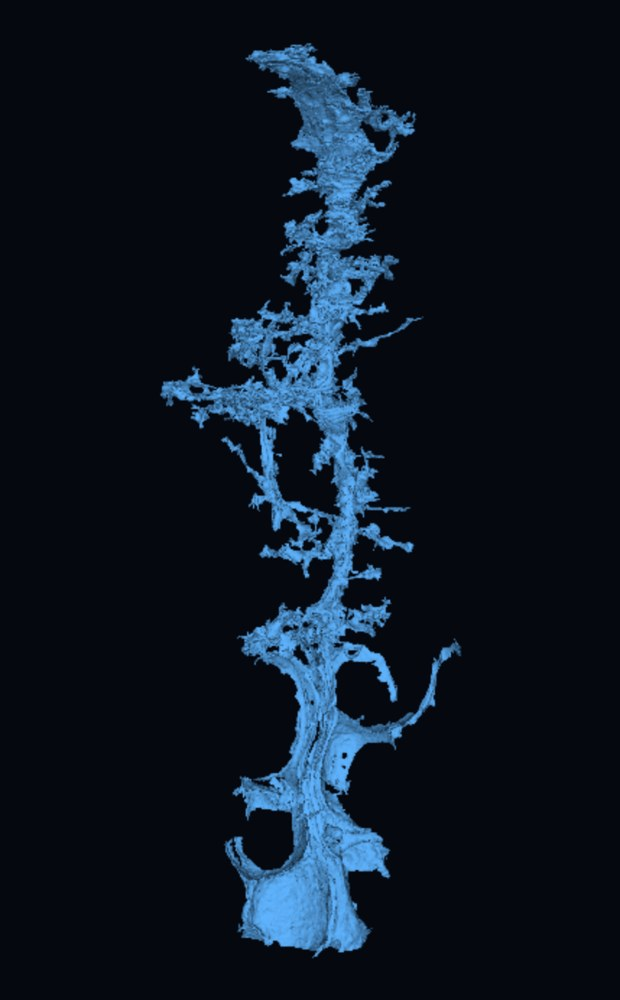
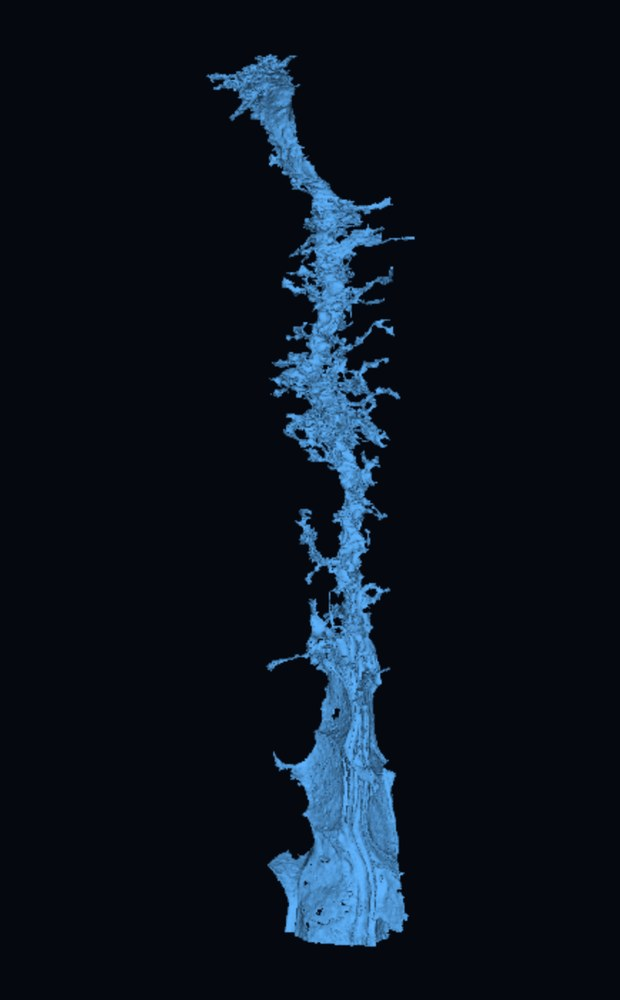
Müller Glia Quest: Play hub card on, Nseraf's glia as the example, edits keep action links
- Play hub: the Glia Quest card is on (GLIA_HERE) and opens the Müller
  quest; Cilia Quest opens Cilia.
- Edited text keeps any [words](#action) link: an edit had turned Show this
  glia into a dead [Show this glia](#) (site_texts.ts).
- Show this glia and the popup picture are Nseraf's proofread glia.
- Müller with the umlaut in everything a player reads.

Changed region(s): [[0.2452, 0.031, 0.6742, 0.961], [0.6742, 0.62, 0.7355, 0.713]]

diff --git a/src/components/MullerGliaQuest.vue b/src/components/MullerGliaQuest.vue
@@ -1,6 +1,6 @@
 <script setup lang="ts">
 /**
- * MullerGliaQuest.vue: the Muller Glia Quest in the Quests tab (Ames
+ * MullerGliaQuest.vue: the Müller Glia Quest in the Quests tab (Ames
  * 2026-11-19). "The first section is confirming that it's a glia with a yes
  * or no. The second stage has users split two glia together that are merged."
  *
@@ -42,18 +42,20 @@ const pairOpen = ref('');
 const checking = ref('');
 const pairNote = ref<Record<string, string>>({});
 
-/** "What is a Muller glia?" (Ames 2026-11-19: "link to a glia here and have
- *  an image in a popup"): the game's instructions box, with a Muller glia the
+/** "What is a Müller glia?" (Ames 2026-11-19: "link to a glia here and have
+ *  an image in a popup"): the game's instructions box, with a Müller glia the
  *  lab proofread (Ames's example, 720575940572199198) and a link that shows it.
  *  Admins can edit the words and the picture (edit notes reach Ames). */
-const EXAMPLE_GLIA = { segmentId: '720575940572199198', at: '43037,55535,1018' };
-const WHAT_LEAD = "Muller glia are the retina's support cells. Each one spans the whole retina, from its foot at the inner surface to the photoreceptors, and holds the neurons around it in place.";
+/** Nseraf's proofread Müller glia (Ames 2026-11-20); `at` is a point on it
+ *  (its largest level 2 piece). */
+const EXAMPLE_GLIA = { segmentId: '720575940558455015', at: '39354,56597,1453' };
+const WHAT_LEAD = "Müller glia are the retina's support cells. Each one spans the whole retina, from its foot at the inner surface to the photoreceptors, and holds the neurons around it in place.";
 const WHAT_STEPS: string[] = [
   'A long column through the full depth of the retina.',
   'Its soma sits in the inner nuclear layer, among the bipolar cells.',
   'A wide end foot on the ganglion cell side (at the bottom of the picture), and fine sheets wrapped around its neighbors.',
   "No axon, and no tidy dendritic tree like a neuron's.",
-  '<a href="#" data-nge-action="glia-example">Show this glia</a> in the viewer: a proofread Muller glia.',
+  '<a href="#" data-nge-action="glia-example">Show this glia</a> in the viewer: a Müller glia proofread by Nseraf.',
 ];
 /** Stage 2's steps (Ames 2026-11-19: fused glia usually touch in more than
  *  one place; Find Path shows where). Editable by admins. */
@@ -68,7 +70,7 @@ function onWhatAction(name: string) {
   if (name !== 'glia-example') return;
   showHow.value = false;
   show(EXAMPLE_GLIA.segmentId, EXAMPLE_GLIA.at);
-  message.value = 'This is a proofread Muller glia. Turn it in 3D to see the whole column.';
+  message.value = 'This Müller glia was proofread by Nseraf. Turn it in 3D to see the whole column.';
 }
 
 const label = (a: GliaAnswer) => (a === 'yes' ? 'Yes' : a === 'no' ? 'No' : 'Not sure');
@@ -184,17 +186,17 @@ async function check(p: GliaPair) {
   <div class="nge-mg">
     <div class="nge-mg-head">
       <div class="nge-mg-titlerow">
-        <div class="nge-mg-title">Muller Glia Quest</div>
-        <button class="nge-mg-btn" :class="{ on: showHow }" @click="showHow = !showHow">What is a Muller glia?</button>
+        <div class="nge-mg-title">Müller Glia Quest</div>
+        <button class="nge-mg-btn" :class="{ on: showHow }" @click="showHow = !showHow">What is a Müller glia?</button>
       </div>
-      <div class="nge-mg-lead">Muller glia are the retina's support cells. Each one spans the whole retina, from its foot at the inner surface to the photoreceptors, and holds the neurons around it in place. Help us find every one of them.</div>
-      <QuestInstructions v-if="showHow" kicker="Muller Glia Quest" title="What is a Muller glia?"
+      <div class="nge-mg-lead">Müller glia are the retina's support cells. Each one spans the whole retina, from its foot at the inner surface to the photoreceptors, and holds the neurons around it in place. Help us find every one of them.</div>
+      <QuestInstructions v-if="showHow" kicker="Müller Glia Quest" title="What is a Müller glia?"
         :lead="WHAT_LEAD" :steps="WHAT_STEPS" lead-key="quest.muller_glia.lead" steps-key="quest.muller_glia.what"
-        image-key="quest.muller_glia.image" :image="imgMullerGlia" image-alt="A Muller glia from the Retina dataset in 3D: a long column with a wide end foot at the bottom"
+        image-key="quest.muller_glia.image" :image="imgMullerGlia" image-alt="A Müller glia from the Retina dataset in 3D: a long column with a wide end foot at the bottom"
         :legend="[]" @close="showHow = false" @action="onWhatAction" />
       <div v-if="status?.installed" class="nge-mg-stages">
         <button class="nge-mg-stage" :class="{ on: stage === 1 }" @click="stage = 1">
-          <span class="nge-mg-stage-n">1</span> Is it a Muller glia?
+          <span class="nge-mg-stage-n">1</span> Is it a Müller glia?
           <span class="nge-mg-stage-c">{{ status.answered }} answered</span>
         </button>
         <button class="nge-mg-stage" :class="{ on: stage === 2, locked: !status.unlocked }" @click="openStage2">
@@ -206,14 +208,14 @@ async function check(p: GliaPair) {
 
     <div v-if="!backend.userId" class="nge-mg-empty">Sign in to take a quest.</div>
     <div v-else-if="loading && !status" class="nge-mg-empty">Reading the quest…</div>
-    <div v-else-if="status && !status.installed" class="nge-mg-empty">The Muller Glia Quest is not open yet.</div>
+    <div v-else-if="status && !status.installed" class="nge-mg-empty">The Müller Glia Quest is not open yet.</div>
     <template v-else-if="status">
       <div v-if="error" class="nge-mg-msg nge-mg-msg--bad">{{ error }}</div>
       <div v-else-if="message" class="nge-mg-msg">{{ message }}</div>
 
       <!-- Stage 1 -->
       <template v-if="stage === 1">
-        <div class="nge-mg-sub">Look at the cell in 3D. Is it a Muller glia? One answer per cell, then the next one opens.</div>
+        <div class="nge-mg-sub">Look at the cell in 3D. Is it a Müller glia? One answer per cell, then the next one opens.</div>
         <div v-if="current" class="nge-mg-card">
           <div class="nge-mg-card-top">
             <div>
@@ -242,7 +244,7 @@ async function check(p: GliaPair) {
             </span>
           </div>
         </template>
-        <div class="nge-mg-foot">Three Yes answers confirm a Muller glia. Two No answers send it to the lab for a closer look. So far: {{ status.confirmed }} confirmed, {{ status.flagged }} sent to the lab.</div>
+        <div class="nge-mg-foot">Three Yes answers confirm a Müller glia. Two No answers send it to the lab for a closer look. So far: {{ status.confirmed }} confirmed, {{ status.flagged }} sent to the lab.</div>
       </template>
 
       <!-- Stage 2 -->
@@ -253,7 +255,7 @@ async function check(p: GliaPair) {
         </div>
         <div v-if="!status.unlocked" class="nge-mg-empty">Stage 2 opens after {{ status.unlockAfter }} answers in Stage 1. You have {{ status.answered }}.</div>
         <template v-else>
-          <div class="nge-mg-sub">Each of these is one segment holding two or more Muller glia that grew together. Cut them apart so each soma has its own cell.</div>
+          <div class="nge-mg-sub">Each of these is one segment holding two or more Müller glia that grew together. Cut them apart so each soma has its own cell.</div>
           <EditableText text-key="quest.muller_glia.split_steps" :original="SPLIT_STEPS" list-class="nge-mg-steps" />
           <div class="nge-mg-section">Merged glia <span class="nge-mg-count">{{ pairs.length }}</span></div>
           <div v-if="pairsLoaded && !pairs.length" class="nge-mg-empty">Every merged pair is split. Thank you!</div>

diff --git a/src/tutorial-glia-split.ts b/src/tutorial-glia-split.ts
@@ -1,11 +1,11 @@
 /**
  * Tutorial 16 : Glia Split Training
  * --------------------------------------------------------------
- * How to split two Muller glia the AI fused into one segment, for Stage 2 of
- * the Muller Glia Quest (Ames 2026-11-19: "fused glia usually have multiple
+ * How to split two Müller glia the AI fused into one segment, for Stage 2 of
+ * the Müller Glia Quest (Ames 2026-11-19: "fused glia usually have multiple
  * points where the meshes are fused - use find path to find origin - could
  * we make a tutorial for this?"). The plan Ames approved ("Go, build it"):
- *   1. glia or neuron: a Muller glia proofread by Nseraf (Ames 2026-11-20:
+ *   1. glia or neuron: a Müller glia proofread by Nseraf (Ames 2026-11-20:
  *      "give him a shout out if we use this"), then a rod bipolar cell from
  *      the Meet the cells gallery (Ames: "you can also utilize the Retina
  *      cell gallery"; the gallery has no glia of its own). They sit 250
@@ -22,7 +22,7 @@
  * was finished, and gives no Achievement.
  *
  * Started from the Training button in the quest's Stage 2 and the What is a
- * Muller glia box, by `nge:tutorial-start` with id 16 (startGliaSplitTutorial).
+ * Müller glia box, by `nge:tutorial-start` with id 16 (startGliaSplitTutorial).
  */
 import { Step, useTutorialStore } from './store-pyr';
 import { findDatasetByCanonical } from './datasets';
@@ -38,7 +38,7 @@ export function startGliaSplitTutorial() {
 }
 
 // ── The cells ────────────────────────────────────────────────────────────
-/** A Muller glia proofread by Nseraf (current on 2026-11-20). Its middle
+/** A Müller glia proofread by Nseraf (current on 2026-11-20). Its middle
  *  and depth, in voxels, from its level 2 pieces. */
 const NSERAF_GLIA = '720575940558455015';
 const NSERAF_AT = [39416, 56319, 1150];
@@ -256,7 +256,7 @@ const BOX_W = '400px';
 /** Beside a lone cell in the middle of the 3D view, not over it. */
 const RIGHT = { element: 'body', x: 0.8, y: 0.12 };
 const chip = (name: string, color: string) => `<span class="nge-hud-chip" style="border-color:${color};color:${color}">${name}</span>`;
-const GLIA = chip('Muller glia', COLORS.glia), BC = chip('Bipolar cell', COLORS.bipolar);
+const GLIA = chip('Müller glia', COLORS.glia), BC = chip('Bipolar cell', COLORS.bipolar);
 const A = `<span class="nge-hud-chip nge-cq-go" data-nge-gs-go="a" title="Go to soma A" style="border-color:${COLORS.a};color:${COLORS.a}">Soma A</span>`;
 const B = `<span class="nge-hud-chip nge-cq-go" data-nge-gs-go="b" title="Go to soma B" style="border-color:${COLORS.b};color:${COLORS.b}">Soma B</span>`;
 
@@ -268,14 +268,14 @@ export const steps: Step[] = [
     modal: true,
     position: MIDDLE,
     width: '560px',
-    text: `The AI sometimes fuses two **Muller glia** into one segment. In Stage 2 of the Muller Glia Quest you split them apart.
+    text: `The AI sometimes fuses two **Müller glia** into one segment. In Stage 2 of the Müller Glia Quest you split them apart.
 
 This training shows you how on a real fused pair, but **nothing you do here is sent**: you practice every step and see the result without cutting. It takes about five minutes.`,
     nextLabel: 'Start',
   },
   {
     part: 'Glia or neuron',
-    title: 'A Muller glia',
+    title: 'A Müller glia',
     get state() { return gliaState(); },
     position: RIGHT,
     width: BOX_W,
@@ -304,7 +304,7 @@ This training shows you how on a real fused pair, but **nothing you do here is s
     get state() { return pairState(); },
     position: OVER_3D,
     width: BOX_W,
-    html: `This segment is two Muller glia. In 3D you can see <strong>two columns</strong> and <strong>two end feet</strong>, joined near the top.
+    html: `This segment is two Müller glia. In 3D you can see <strong>two columns</strong> and <strong>two end feet</strong>, joined near the top.
 <p>Each glia has its own soma: ${A} and ${B}. Click one to go there in the 2D view.</p>
 <p>Fused glia usually join in <strong>more than one place</strong>, and the joins are hard to spot by eye. Find Path finds them for you.</p>`,
   } as Step,
@@ -369,7 +369,7 @@ This training shows you how on a real fused pair, but **nothing you do here is s
 </ol>
 <p>Your cuts in the quest are real edits, so take your time.</p>`,
     onEnter: clearTools,
-    nextLabel: 'Open Muller Glia Quest',
+    nextLabel: 'Open Müller Glia Quest',
     notNowLabel: 'Not now',
   },
 ];

diff --git a/src/components/PlayButton.vue b/src/components/PlayButton.vue
@@ -32,8 +32,9 @@ const picked = ref<HubPick>('cells');
 const questsOk = computed(() => canQuest());
 const hub = computed(() => retinaHub());
 const glia1Ok = computed(() => canViewRetina());
-/** Glia Quest is on its own branch (claude/muller-glia-quest) until merged here. */
-const GLIA_HERE = false;
+/** The Müller Glia Quest is here (src/components/MullerGliaQuest.vue,
+ *  server ewMullerGlia, deployed 2026-11-20). */
+const GLIA_HERE = true;
 const okFor = (k: HubPick) => k === 'cells' ? true : k === 'glia' ? glia1Ok.value && GLIA_HERE : questsOk.value;
 const where = computed(() => mappingWhere());
 const busy = ref(false);
@@ -84,7 +85,7 @@ const FRAG_LINES = [
   '<b>Finish</b> by marking its main dendrite or soma, then Submit.',
 ];
 const GLIA_LINES = [
-  '<b>Stage 1</b> Is it a Muller glia? Yes or no.',
+  '<b>Stage 1</b> Is it a Müller glia? Yes or no.',
   '<b>Stage 2</b> Two glia stuck together: Cut them apart.',
 ];
 const QUEST_LINES = [
@@ -127,9 +128,13 @@ async function go() {
   const k = picked.value;
   if (k === 'glia') {
     play.choosing = false;
+    // The Quests tab opens on the Müller Glia Quest (CellLibraryPanel.vue).
+    document.dispatchEvent(new CustomEvent('nge:quest-pick', { detail: 'muller' }));
     document.dispatchEvent(new CustomEvent('nge:open-cell-library', { detail: { tab: 'quests' } }));
     return;
   }
+  // Cilia Quest shares the Quests tab with the Müller Glia Quest: show Cilia.
+  if (k === 'quests') document.dispatchEvent(new CustomEvent('nge:quest-pick', { detail: 'cilia' }));
   busy.value = true;
   try { await startPlay(k); } finally { busy.value = false; }
 }
@@ -276,9 +281,9 @@ onUnmounted(() => { document.removeEventListener('keydown', onKey, true); frameO
                :class="{ 'nge-play-opt--on': picked === 'glia', 'nge-play-opt--off': !okFor('glia') }"
                :aria-disabled="!okFor('glia') ? 'true' : undefined" :aria-checked="picked === 'glia' ? 'true' : 'false'"
                @click="pick('glia')" @dblclick="go" @keydown.enter.self="go" @keydown.space.self.prevent="pick('glia')">
-            <span class="nge-play-opt-name">Glia Quest</span>
-            <span class="nge-play-opt-where">Muller glia on Retina</span>
-            <EditableText text-key="play.glia" :original="GLIA_LINES" list-class="nge-play-opt-lines" notify quiet label="Play card: Glia Quest" />
+            <span class="nge-play-opt-name">Müller Glia Quest</span>
+            <span class="nge-play-opt-where">Müller glia on Retina</span>
+            <EditableText text-key="play.glia" :original="GLIA_LINES" list-class="nge-play-opt-lines" notify quiet label="Play card: Müller Glia Quest" />
             <span v-if="!GLIA_HERE" class="nge-play-opt-lock">Coming soon</span>
             <span v-else-if="!glia1Ok" class="nge-play-opt-lock">Unlocks with view access on Retina</span>
             <span v-else-if="!questsOk" class="nge-play-opt-note">Stage 1 is open to you. Stage 2 unlocks with edit access.</span>

diff --git a/src/components/CellLibraryPanel.vue b/src/components/CellLibraryPanel.vue
@@ -168,10 +168,10 @@ function confirmDeleteTag(tag: IssueTag) {
 }
 
 const loading = ref(false);
-/** Quests tab: which quest is shown (Muller glia mockup, Ames 2026-11-19). */
+/** Quests tab: which quest is shown (Müller glia mockup, Ames 2026-11-19). */
 const questPick = ref<'cilia' | 'muller'>((() => { try { return localStorage.getItem('nge_quest_pick_v1') === 'muller' ? 'muller' : 'cilia'; } catch { return 'cilia'; } })());
 function pickQuest(q: 'cilia' | 'muller') { questPick.value = q; try { localStorage.setItem('nge_quest_pick_v1', q); } catch {} }
-// Glia Split Training's last button opens the Muller Glia Quest (tutorial-glia-split.ts).
+// Glia Split Training's last button opens the Müller Glia Quest (tutorial-glia-split.ts).
 document.addEventListener('nge:quest-pick', (e: Event) => { const q = (e as CustomEvent).detail; if (q === 'cilia' || q === 'muller') pickQuest(q); });
 const filter = ref<'mine' | 'all' | 'available' | 'completed' | 'claimed' | 'hunt' | 'giants' | 'help' | 'links' | 'tags' | 'ai' | 'teams' | 'quests' | 'cast' | 'orphans'>(
   // A tab asked for by whoever opened the library, else the one the player
@@ -4297,7 +4297,7 @@ onBeforeUnmount(() => {
         <div v-else-if="filter === 'quests'" class="nge-cl-list">
           <div v-if="questsHere && !slimQuest" class="nge-cl-questpick">
             <button :class="{ on: questPick === 'cilia' }" @click="pickQuest('cilia')">Cilia Quest</button>
-            <button :class="{ on: questPick === 'muller' }" @click="pickQuest('muller')">Muller Glia Quest <span class="nge-cl-questpick-new">New</span></button>
+            <button :class="{ on: questPick === 'muller' }" @click="pickQuest('muller')">Müller Glia Quest <span class="nge-cl-questpick-new">New</span></button>
           </div>
           <muller-glia-quest v-if="questsHere && questPick === 'muller' && !slimQuest" />
           <annotation-quests-tab v-else-if="questsHere" :slim="slimQuest" :play-enter="questPlay" />

diff --git a/src/site_texts.ts b/src/site_texts.ts
@@ -61,9 +61,11 @@ const escapeHtml = (s: string) => s.replace(/&/g, '&amp;').replace(/</g, '&lt;')
 export function textToHtml(line: string): string {
   let h = escapeHtml(line);
   h = h.replace(/\*\*(.+?)\*\*/g, '<b>$1</b>');
-  h = h.replace(/\[([^\]]+)\]\((https:\/\/[^\s)]+|#examples)\)/g, (_m, words: string, url: string) =>
-    url === '#examples'
-      ? `<a href="#" data-nge-action="examples">${words}</a>`
+  // [words](#name) is an in-game action link (data-nge-action), like
+  // #examples or #glia-example; [words](https://...) opens a page.
+  h = h.replace(/\[([^\]]+)\]\((https:\/\/[^\s)]+|#[\w-]+)\)/g, (_m, words: string, url: string) =>
+    url.startsWith('#')
+      ? `<a href="#" data-nge-action="${url.slice(1)}">${words}</a>`
       : `<a href="${url}" target="_blank" rel="noopener">${words}</a>`);
   return h;
 }
@@ -76,7 +78,9 @@ export function textToSteps(body: string): string[] {
 /** The code's HTML back into the editor's marks, for a first edit. */
 export function htmlToText(html: string): string {
   return html
-    .replace(/<a [^>]*data-nge-action="examples"[^>]*>(.*?)<\/a>/g, '[$1](#examples)')
+    // Any action link keeps its action (Ames 2026-11-20: Show this glia
+    // came back as [Show this glia](#), a dead link, after an edit).
+    .replace(/<a [^>]*data-nge-action="([\w-]+)"[^>]*>(.*?)<\/a>/g, '[$2](#$1)')
     .replace(/<a [^>]*href="([^"]+)"[^>]*>(.*?)<\/a>/g, '[$2]($1)')
     .replace(/<\/?(b|strong)>/g, '**')
     .replace(/<[^>]+>/g, '')

diff --git a/src/muller_glia.ts b/src/muller_glia.ts
@@ -1,5 +1,5 @@
 /**
- * Muller Glia Quest client (Ames 2026-11-19). Every read and write goes
+ * Müller Glia Quest client (Ames 2026-11-19). Every read and write goes
  * through ewMullerGlia (functions/muller-glia.js), which knows the player from
  * their CAVE token; the tables are supabase-muller-glia.sql.
  */
@@ -22,9 +22,9 @@ async function call<T = any>(action: string, body: Record<string, unknown> = {})
     });
   } catch {
     // Not reachable at all ("Failed to fetch"): the server is not open yet, or the connection dropped.
-    throw new Error('The Muller Glia Quest could not be reached. It may not be open yet: try again later.');
+    throw new Error('The Müller Glia Quest could not be reached. It may not be open yet: try again later.');
   }
-  if (response.status === 404) throw new Error('The Muller Glia Quest is not open yet. Try again later.');
+  if (response.status === 404) throw new Error('The Müller Glia Quest is not open yet. Try again later.');
   const result = await response.json().catch(() => ({}));
   if (!response.ok) throw new Error(result.error || 'The quest could not be reached. Try again in a moment.');
   return result.data as T;

diff --git a/src/components/ExtensionBar.vue b/src/components/ExtensionBar.vue
@@ -1777,7 +1777,7 @@ onUnmounted(() => { window.removeEventListener('mousemove', onBarMouseMove, { ca
           </div>
         </li>
         <!-- Glia Split Training (src/tutorial-glia-split.ts): Stage 2 of the
-             Muller Glia Quest, practiced on a real fused pair without cutting. -->
+             Müller Glia Quest, practiced on a real fused pair without cutting. -->
         <li>
           <div class="logoutButton button nge-menu-item" @click="startTutorial(16); closeHamburger()">
             <span class="nge-menu-num nge-menu-num--icon">✂</span><span>Glia Split Training</span><span v-if="tutorialsDone.has(16)" class="nge-menu-done" title="Finished">✓</span>
